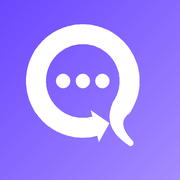
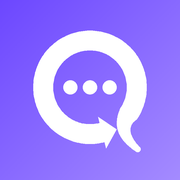
[edit]アイコンの Q の位置をそろえ、Android の丸いアイコンでしっぽが欠けないように
- 「…」の真ん中のドットを左右の真ん中に、上下は少し上（48.5）に置く
- PWA 用（icon-512.png、maskable）は Q を 88% に縮め、中心から半径 40 の円にしっぽの先まで収める

Changed region(s): [[0.1389, 0.1111, 0.8333, 0.8611]]

diff --git a/tools/brand.py b/tools/brand.py
@@ -123,8 +123,10 @@ def q_draw(d, cx, cy, r, w, fill, dot_fill, scale=1.0):
         d.ellipse([(x - rr) * scale, (y - rr) * scale, (x + rr) * scale, (y + rr) * scale], fill=dot_fill)
 
 
-# ---- アイコン（100 x 100）。しっぽまで含めて真ん中に見えるよう、少し左上に置く ----
-ICON_Q = dict(cx=46, cy=45, r=26, w=11)
+# ---- アイコン（100 x 100）----
+# 「…」の真ん中のドット（輪の中心）を左右の真ん中に置き、上下は少し上（しっぽと矢じりで下が重くなる分と、
+# 目で見た中央が実際より少し上にあることを合わせる）
+ICON_Q = dict(cx=50, cy=48.5, r=26, w=11)
 
 
 def icon_svg():
@@ -148,12 +150,17 @@ def gradient(width, height, start=ACCENT, end=ACCENT_LIGHT):
     return Image.composite(Image.new("RGB", (width, height), end), base, mask)
 
 
-def icon_png(size, rounded=False):
-    """rounded=False は角を丸めない（iPhone や maskable は OS 側で丸める）"""
+# Android の maskable アイコンは中心から半径 40 の円の中しか必ずは見えないので、しっぽの先が入るよう縮める
+MASKABLE_SCALE = 0.88
+
+
+def icon_png(size, rounded=False, shrink=1.0):
+    """rounded=False は角を丸めない（iPhone や maskable は OS 側で丸める）。shrink で Q を中央を基準に縮める"""
     big = size * 4
     img = gradient(big, big).convert("RGBA")
     layer = Image.new("RGBA", (big, big), (0, 0, 0, 0))
-    q_draw(ImageDraw.Draw(layer), **ICON_Q, fill=WHITE + (255,), dot_fill=WHITE + (255,), scale=big / 100)
+    q = dict(cx=50 + (ICON_Q["cx"] - 50) * shrink, cy=50 + (ICON_Q["cy"] - 50) * shrink, r=ICON_Q["r"] * shrink, w=ICON_Q["w"] * shrink)
+    q_draw(ImageDraw.Draw(layer), **q, fill=WHITE + (255,), dot_fill=WHITE + (255,), scale=big / 100)
     img.alpha_composite(layer)
     if rounded:
         mask = Image.new("L", (big, big), 0)
@@ -263,7 +270,7 @@ def wordmark_image(cap_height, letter_fill, q_fill, dot_fill):
 def main():
     (ROOT / "shared" / "icon.svg").write_text(icon_svg(), encoding="utf-8")
     (ROOT / "shared" / "logo.svg").write_text(logo_svg(), encoding="utf-8")
-    icon_png(512).convert("RGB").save(ROOT / "shared" / "icon-512.png", optimize=True)
+    icon_png(512, shrink=MASKABLE_SCALE).convert("RGB").save(ROOT / "shared" / "icon-512.png", optimize=True)
     icon_png(180).convert("RGB").save(ROOT / "shared" / "apple-touch-icon.png", optimize=True)
     print("wrote shared/icon.svg, shared/logo.svg, shared/icon-512.png, shared/apple-touch-icon.png")
 
